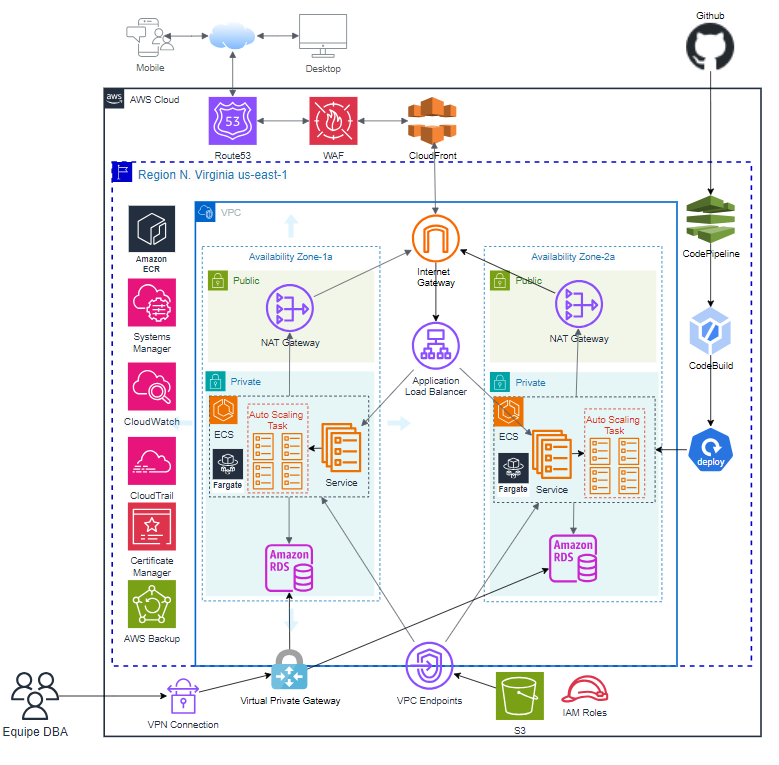
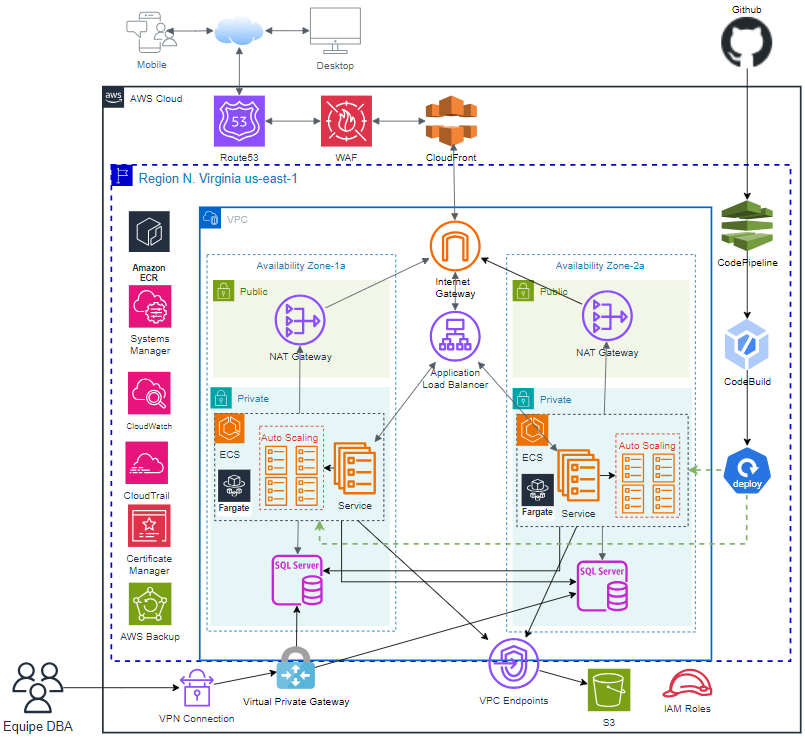
Novo diagrama; Removendo cnnstr

Changed region(s): [[0.0, 0.0, 1.0, 0.9973]]

diff --git a/postcard/obj/Debug/net7.0/postcard.AssemblyInfo.cs b/postcard/obj/Debug/net7.0/postcard.AssemblyInfo.cs
@@ -14,7 +14,7 @@ using System.Reflection;
 [assembly: System.Reflection.AssemblyCompanyAttribute("postcard")]
 [assembly: System.Reflection.AssemblyConfigurationAttribute("Debug")]
 [assembly: System.Reflection.AssemblyFileVersionAttribute("1.0.0.0")]
-[assembly: System.Reflection.AssemblyInformationalVersionAttribute("1.0.0+64db86d475c6ce22cc55164825cdd349f9a8a37a")]
+[assembly: System.Reflection.AssemblyInformationalVersionAttribute("1.0.0+bdb09db2b8b7a0dc05d3b7164cda1f9662cbb792")]
 [assembly: System.Reflection.AssemblyProductAttribute("postcard")]
 [assembly: System.Reflection.AssemblyTitleAttribute("postcard")]
 [assembly: System.Reflection.AssemblyVersionAttribute("1.0.0.0")]
